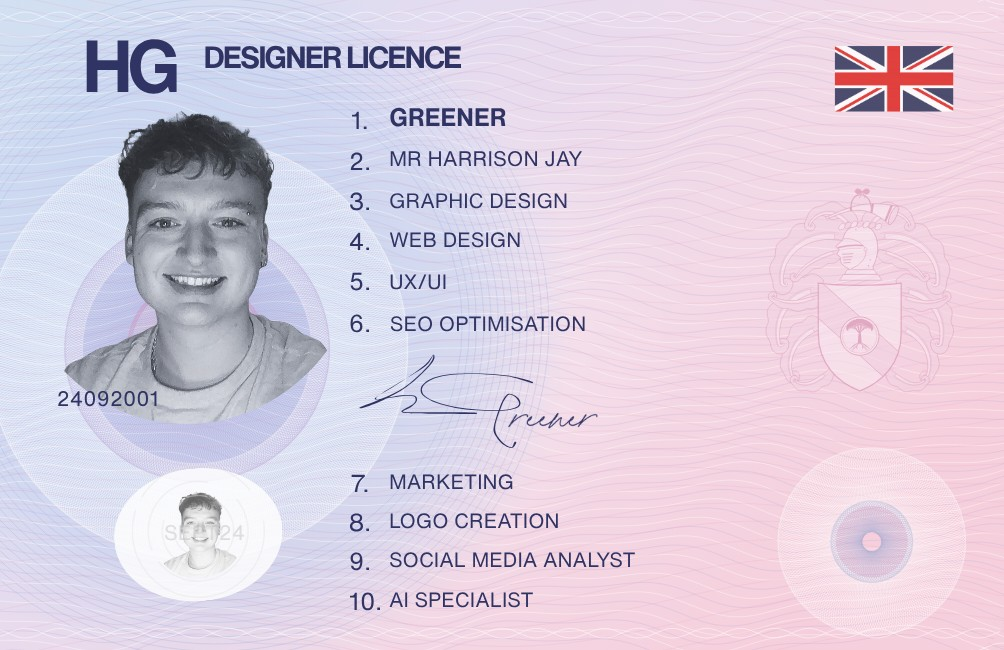
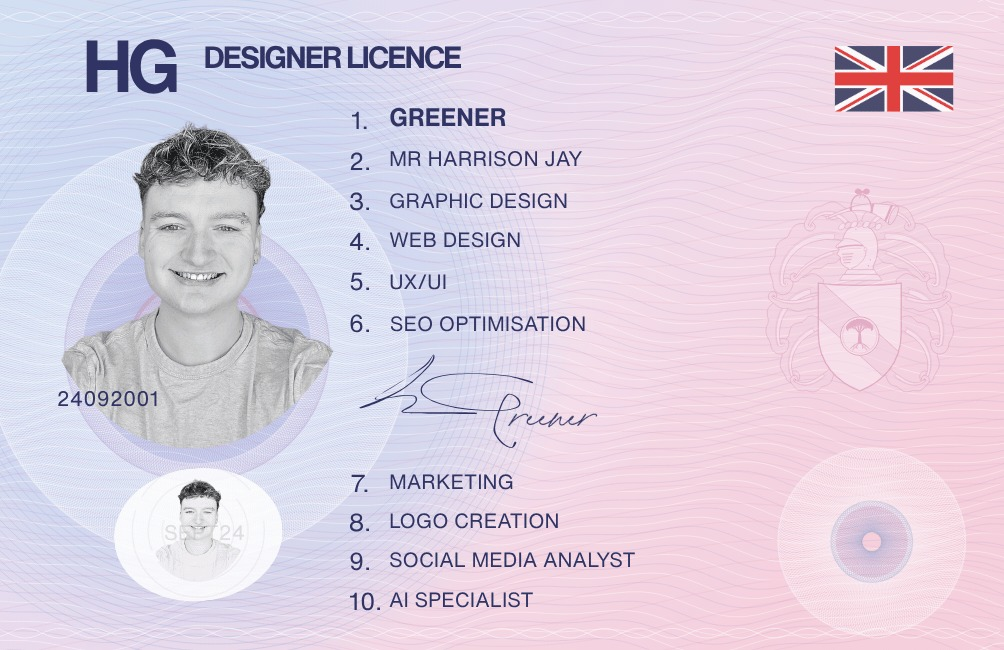
Scratchcard tilts up out of its slot over the stitching; new Designer Licence artwork

Changed region(s): [[0.0618, 0.1538, 0.3396, 0.7077], [0.1544, 0.7385, 0.247, 0.8615], [0.5249, 0.6462, 0.5867, 0.6769]]

diff --git a/index.html b/index.html
@@ -1819,15 +1819,26 @@ function putBack() {
 }
 function poseActive() {
   const { item, p, homePos, homeQuat, dist, dirV } = active; const g = item.group;
-  const slideEnd = homePos.clone().addScaledVector(dirV, dist);
+  const slideEnd = homePos.clone().addScaledVector(dirV, dist), startQ = homeQuat.clone();
+  // The scratchcard comes out of a slot by the fold, so it tilts up as it slides, clearing the stitching and the
+  // left panel; the end still in the slot dips into the leather, out of sight.
+  const tilt = (pos, quat, f) => {
+    if (item.kind !== 'scratch') return;
+    const pivot = item.parent.localToWorld(new THREE.Vector3(STRIP, item.home.y, item.home.zTop + item.zLen / 2));
+    const axis = new THREE.Vector3(0, 0, 1).applyQuaternion(item.parent.getWorldQuaternion(new THREE.Quaternion()));
+    const R = new THREE.Quaternion().setFromAxisAngle(axis, -0.11 * Math.min(1, f * 1.6));
+    pos.sub(pivot).applyQuaternion(R).add(pivot); quat.premultiply(R);
+  };
+  tilt(slideEnd, startQ, 1);
   if (p <= 1) {
     const f = ease(p);
     g.position.copy(homePos).addScaledVector(dirV, dist * f);
     g.quaternion.copy(homeQuat); g.scale.setScalar(1);
+    tilt(g.position, g.quaternion, f);
   } else {
     const f = ease(p - 1); const t = expandedPose(item);
     g.position.lerpVectors(slideEnd, t.pos, f); g.position.y += Math.sin(Math.PI * f) * 2.2;
-    g.quaternion.slerpQuaternions(homeQuat, t.quat, f);
+    g.quaternion.slerpQuaternions(startQ, t.quat, f);
     g.scale.setScalar(1 + (t.scale - 1) * f);
   }
   if (item.setFold) item.setFold(p <= 1 ? 0 : ease(p - 1));   // unfolds on the way to you, folds back up on the way home
